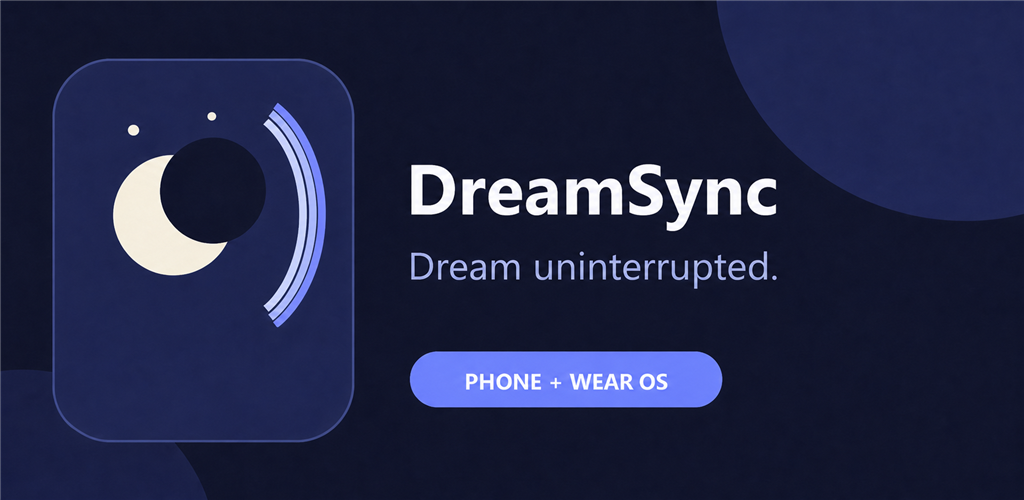
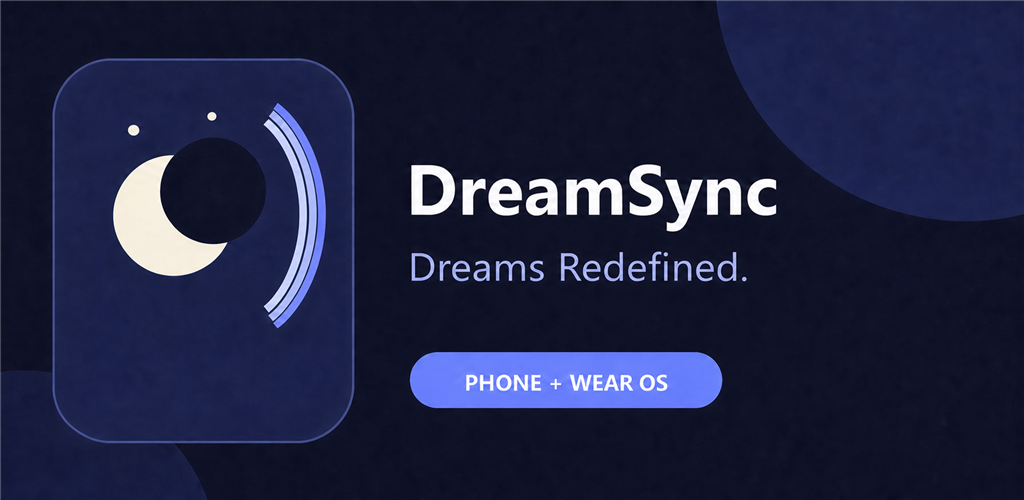
brand: redefine DreamSync marketing

diff --git a/phone/src/main/java/com/remote/DreamSync/MainActivity.java b/phone/src/main/java/com/remote/DreamSync/MainActivity.java
@@ -681,7 +681,9 @@ public final class MainActivity extends Activity {
                 .getBoolean("onboarding_seen", false)) return;
         new AlertDialog.Builder(this)
                 .setTitle("Welcome to DreamSync")
-                .setMessage("Tap Arm for tonight once. DreamSync opens the watch, waits for sustained sleep signals, estimates sleep onset, then activates conservative cue timing automatically. "
+                .setMessage("Dreams Redefined. DreamSync's mission is to protect sleep continuity. It estimates likely sleep from wearable signals, stays quiet when confidence is low, and uses gentle research-shaped cues only when strict safety checks indicate a low risk of disturbance. "
+                        + "Tap Arm for tonight once. DreamSync opens the watch, waits for sustained sleep signals, estimates sleep onset, then activates conservative cue timing automatically. "
+                        + "Designed for Samsung Galaxy Watch4 and later models running compatible Wear OS software, including Galaxy Watch Ultra. Apple Watch is planned but is not supported in this release. "
                         + "DreamSync is an adult wellness app that estimates cue-ready windows from wrist motion and heart rate. "
                         + "Its deep cue pattern is shaped by peer-reviewed EEG research, but DreamSync does not measure EEG or reproduce laboratory phase locking. "
                         + "It is not a medical device and does not diagnose, treat, cure, or prevent any medical condition. "
@@ -704,7 +706,11 @@ public final class MainActivity extends Activity {
         content.setLineSpacing(0f, 1.2f);
         content.setMovementMethod(LinkMovementMethod.getInstance());
         content.setText(Html.fromHtml(
-                "<b>What DreamSync does</b><br>"
+                "<b>Dreams Redefined.</b><br>"
+                        + "Our mission is to protect sleep continuity. DreamSync estimates likely sleep from wearable signals, stays quiet when confidence is low, and uses gentle research-shaped cues only when strict safety checks indicate a low risk of disturbance.<br><br>"
+                        + "<b>Watch compatibility</b><br>"
+                        + "Designed for Samsung Galaxy Watch4 and later models running compatible Wear OS software, including Watch4/4 Classic, Watch5/5 Pro, Watch6/6 Classic, Watch7, Watch8/8 Classic, Watch FE, and Galaxy Watch Ultra (2024/2025). Cueing requires usable heart-rate and motion signals plus the required permissions. Galaxy Fit and older Samsung Tizen watches are not supported. Apple Watch support is planned, not available in this release.<br><br>"
+                        + "<b>What DreamSync does</b><br>"
                         + "1. Tap <b>Arm for tonight</b> once. DreamSync opens the watch and waits quietly for sustained sleep signals.<br>"
                         + "2. Your watch estimates sleep onset from sustained low motion and signal quality. This is an estimate, not a sleep-stage diagnosis.<br>"
                         + "3. Cues are allowed only after a stable, low-motion period, from 25 to 145 minutes after estimated sleep onset.<br>"

diff --git a/docs/play-store/STORE_LISTING.md b/docs/play-store/STORE_LISTING.md
@@ -12,11 +12,13 @@
 
 ## Short description
 
-Dream uninterrupted. Sleep-first cues guided by your Wear OS watch.
+Dreams Redefined. Automatic sleep estimation with sleep-first safety.
 
 ## Full description
 
-Dream uninterrupted. DreamSync pairs your Android phone with a Wear OS watch to deliver quiet, research-shaped sleep cues during conservative cue-ready windows. Protecting your sleep always takes priority over delivering a cue.
+Dreams Redefined.
+
+DreamSync's mission is to protect sleep continuity. It automatically estimates likely sleep from wearable signals, stays quiet when confidence is low, and uses gentle, research-shaped cues only when strict safety checks indicate a low risk of disturbance.
 
 HOW IT WORKS
 
@@ -26,7 +28,7 @@ DreamSync waits for a stable, low-motion period from 25 to 145 minutes after est
 
 SCIENCE, CLEARLY STATED
 
-The acoustic pattern comes from peer-reviewed auditory sleep research. In a randomized crossover laboratory study of 14 healthy young men, Besedovsky and colleagues used EEG to phase-lock paired 50 dB pink-noise bursts to slow oscillations during non-REM sleep. About 172 paired stimulations were delivered on average across 120 minutes. The study reported increased slow-oscillation power and amplitude without changing time spent in measured sleep stages. Hormone analyses used 10 to 14 participants; immune-cell results used a nine-person subset; growth hormone was unchanged. DreamSync does not measure or claim those biological outcomes.
+The acoustic pattern comes from peer-reviewed auditory sleep research. In a randomized crossover laboratory study of 14 healthy young men, Besedovsky and colleagues used EEG to phase-lock paired 50 dB pink-noise bursts to slow oscillations during non-REM sleep. The study reported increased slow-oscillation power and amplitude without changing time spent in measured sleep stages. Those findings belong to the laboratory method; DreamSync does not claim biological outcomes.
 
 Earlier closed-loop studies by Ngo and colleagues reported effects on slow oscillations and memory under EEG control. A later open-loop study by Weigenand and colleagues did not improve word-pair memory, altered other sleep measures, and was noticed by half of its participants. DreamSync therefore makes no memory claim and uses low cue volume, conservative gating, long quiet periods, and immediate stopping after a cue-linked wake sign.
 
@@ -41,11 +43,13 @@ Ngo et al. Neuron, 2013. DOI: 10.1016/j.neuron.2013.03.006
 Ngo et al. Journal of Neuroscience, 2015. DOI: 10.1523/JNEUROSCI.3133-14.2015
 Weigenand et al. European Journal of Neuroscience, 2016. DOI: 10.1111/ejn.13334
 
-Your session history, morning check-ins, and optional dream notes stay on your paired devices unless you choose Export. DreamSync has no accounts, ads, analytics, or automatic cloud upload. You can export or delete your local data at any time.
+Session data stays on paired devices unless you choose Export. DreamSync has no accounts, ads, analytics, or automatic cloud upload. You can export or delete local data at any time.
 
 DreamSync is intended for adults age 18 and older. It is not a medical device and does not diagnose, treat, cure, or prevent any medical condition. It does not guarantee deeper sleep, memory improvement, immune effects, or lucid dreams. Consult a qualified healthcare professional for medical advice, diagnosis, or treatment.
 
-Requires an Android phone and a compatible Wear OS watch with motion and heart-rate sensors. Reliable heart-rate access is required for automatic cueing.
+WATCH COMPATIBILITY
+
+Designed for Samsung Galaxy Watch4 and later models running a compatible Wear OS version: Watch4/4 Classic, Watch5/5 Pro, Watch6/6 Classic, Watch7, Watch8/8 Classic, Watch FE, and Galaxy Watch Ultra (2024/2025). Cueing requires usable heart-rate and motion signals plus the required permissions. Google Play device compatibility and sensor availability can vary by watch software. Galaxy Fit and older Samsung Tizen watches are not supported. Apple Watch support is planned, not available in this release.
 
 ## Release notes
 

diff --git a/docs/play-store/MARKETING_PROPOSAL.md b/docs/play-store/MARKETING_PROPOSAL.md
@@ -2,17 +2,21 @@
 
 ## Positioning
 
-DreamSync is the sleep-first cue companion for adults who want a transparent, private way to explore research-shaped auditory cues with a Wear OS watch.
+DreamSync is the sleep-first cue companion for adults who want a transparent, private way to explore research-shaped auditory cues with a compatible Samsung Galaxy Watch.
 
 The marketing promise is simple: DreamSync explains what it does, shows the peer-reviewed work that shaped it, and clearly separates laboratory findings from what a consumer watch can estimate.
 
 ## Brand slogan
 
-Dream uninterrupted.
+Dreams Redefined.
+
+## Official mission
+
+DreamSync's mission is to protect sleep continuity by automatically estimating likely sleep from wearable signals, staying quiet when confidence is low, and using gentle, research-shaped cues only when strict safety checks indicate a low risk of disturbance.
 
 ## Primary message
 
-Sleep-first cues guided by your Wear OS watch, with private on-device data.
+Automatic sleep estimation, sleep-first safety, and private on-device data.
 
 Supporting points:
 
@@ -25,6 +29,12 @@ Supporting points:
 - Any arousal starts a 20-minute quiet period; the first cue-linked wake sign ends cueing for the night.
 - Personal data stays on the paired devices unless the user chooses Export.
 
+## Device message
+
+Designed for Samsung Galaxy Watch4 and later models running a compatible Wear OS version: Watch4/4 Classic, Watch5/5 Pro, Watch6/6 Classic, Watch7, Watch8/8 Classic, Watch FE, and Galaxy Watch Ultra (2024/2025).
+
+Public copy must also say that cueing depends on usable heart-rate and motion signals, permissions, Google Play device compatibility, and watch software. Galaxy Fit and older Samsung Tizen watches are not supported. Apple Watch support is planned, not available in this release. Do not describe an untested model as physically validated.
+
 ## Evidence and claim boundaries
 
 ### Claims DreamSync can make
@@ -32,6 +42,7 @@ Supporting points:
 - DreamSync plays the published paired-burst acoustic pattern.
 - DreamSync estimates conservative cue-ready windows from wrist motion, heart rate, and elapsed time.
 - DreamSync can say that sleep-onset timing becomes automatic after the user visibly arms health sensing for that night.
+- DreamSync is designed to protect sleep continuity by staying quiet when required safety checks are uncertain.
 - DreamSync uses explicit signal-quality, arousal, route, battery, connection, and volume safety gates.
 - DreamSync stores data locally and gives the user export and deletion controls.
 
@@ -50,6 +61,7 @@ Supporting points:
 - EEG phase locking.
 - Improved memory, immunity, hormones, or treatment of insomnia or depression.
 - Guaranteed lucid dreams.
+- Guaranteed uninterrupted sleep or guaranteed prevention of waking.
 - Medical-device, diagnostic, preventive, curative, or treatment claims.
 
 ## Store-page structure
@@ -63,8 +75,9 @@ Supporting points:
 
 ## Screenshot messages
 
-- Dream uninterrupted.
-- Research-shaped paired pink-noise cues.
+- Dreams Redefined.
+- Automatic sleep estimation. Sleep protection first.
+- Designed for Galaxy Watch Ultra and Galaxy Watch4 or later.
 - A wake sign stops cueing for the night.
 - Private history, check-ins, export, and deletion.
 - Science and limitations explained inside the app.

diff --git a/docs/play-store/BRAND_MESSAGING.md b/docs/play-store/BRAND_MESSAGING.md
@@ -1,0 +1,33 @@
+# DreamSync Official Brand Messaging
+
+## Slogan
+
+Dreams Redefined.
+
+## Mission
+
+DreamSync's mission is to protect sleep continuity by automatically estimating likely sleep from wearable signals, staying quiet when confidence is low, and using gentle, research-shaped cues only when strict safety checks indicate a low risk of disturbance.
+
+## Short public message
+
+Automatic sleep estimation with sleep-first safety.
+
+## Watch compatibility
+
+Designed for Samsung Galaxy Watch4 and later models running a compatible Wear OS version: Watch4/4 Classic, Watch5/5 Pro, Watch6/6 Classic, Watch7, Watch8/8 Classic, Watch FE, and Galaxy Watch Ultra (2024/2025). Cueing requires usable heart-rate and motion signals plus the required permissions. Google Play device compatibility and sensor availability can vary by watch software. Galaxy Fit and older Samsung Tizen watches are not supported. Apple Watch support is planned, not available in this release.
+
+## Approved claim language
+
+- Estimates likely sleep and conservative cue-ready windows.
+- Designed to protect sleep continuity.
+- Stays quiet when required safety checks are uncertain.
+- Uses a research-shaped paired pink-noise pattern.
+- Data stays on paired devices unless the user exports it.
+
+## Do not claim
+
+- Guaranteed uninterrupted sleep or prevention of waking.
+- Proven deeper sleep, sleep-stage detection, or EEG phase locking.
+- Improved memory, immunity, hormones, or treatment of a condition.
+- Guaranteed lucid dreams.
+- Physical validation on a watch model until that model has passed documented hardware tests.

diff --git a/docs/play-store/PUBLISHING_STATUS.md b/docs/play-store/PUBLISHING_STATUS.md
@@ -3,6 +3,9 @@
 ## Prepared
 
 - Public product name and publisher naming.
+- Official slogan: Dreams Redefined.
+- Official mission centered on automatic likely-sleep estimation, sleep continuity, and fail-closed cue safety.
+- Samsung Galaxy Watch4-and-later compatibility copy, with Apple Watch clearly marked as planned.
 - Version 1.0.0 with unique phone and Wear OS version codes.
 - Consumer interface with sleep-cue settings only.
 - Health permission disclosure before the watch permission prompt.
@@ -10,6 +13,9 @@
 - Privacy policy source and deployable website.
 - Store listing and Play declaration answers.
 - Local export and deletion controls.
+- Slogan feature graphic at `assets/dreamsync-feature-graphic-slogan-1024x500.png`.
+- Current phone and tablet screenshots captured from version code 9.
+- Live Google Play short and full descriptions saved with the official slogan and mission.
 
 ## Google Play gate
 
@@ -19,6 +25,7 @@ This developer account must complete Google Play's required closed release with 
 
 - Make the hosted privacy policy publicly accessible and enter its URL in Play Console.
 - Finish the 11 App information and store listing tasks in Play Console.
+- Upload the current icon, slogan feature graphic, and current app screenshots.
 - Upload phone and Wear OS 1.0.0 bundles to the closed track.
 - Add at least 12 real users and keep them opted in for 14 consecutive days.
 - Apply for production access after the gate unlocks.

diff --git a/README.md b/README.md
@@ -1,10 +1,18 @@
 # DreamSync
 
-**Dream uninterrupted.**
+**Dreams Redefined.**
 
 DreamSync is an Android and Wear OS wellness app that plays low-volume sleep cues only when a paired watch detects conservative cue-ready windows from motion and heart-rate signals. Protecting sleep always takes priority over delivering a cue.
 
 DreamSync does not measure EEG, diagnose sleep, treat a medical condition, guarantee deeper sleep, or guarantee lucid dreams. Session data stays on the user's devices unless the user chooses Export.
+
+## Mission
+
+DreamSync's mission is to protect sleep continuity by automatically estimating likely sleep from wearable signals, staying quiet when confidence is low, and using gentle, research-shaped cues only when strict safety checks indicate a low risk of disturbance.
+
+## Watch compatibility
+
+DreamSync is designed for Samsung Galaxy Watch4 and later models running a compatible Wear OS version, including Watch4/4 Classic, Watch5/5 Pro, Watch6/6 Classic, Watch7, Watch8/8 Classic, Watch FE, and Galaxy Watch Ultra (2024/2025). Cueing requires usable heart-rate and motion signals and the required permissions. Google Play device compatibility and sensor availability can vary by watch software. Galaxy Fit and older Samsung Tizen watches are not supported. Apple Watch support is planned, not available in this release.
 
 ## Automatic sleep estimation
 

diff --git a/docs/VERIFICATION_RESULTS.md b/docs/VERIFICATION_RESULTS.md
@@ -7,6 +7,10 @@ Date: 19 July 2026
 - Public name: DreamSync.
 - Publisher: Remote.
 - Package: `com.remote.DreamSync`.
+- Phone release code: 9 (`1.0.0`).
+- Official slogan and mission are consistent across the app and Play marketing copy.
+- Public compatibility copy names Samsung Galaxy Watch4 and later Wear OS models, requires usable heart-rate and motion signals, and marks Apple Watch as planned.
+- Live Google Play short and full descriptions are saved with the official slogan and mission.
 - Phone and Wear OS debug builds pass.
 - Phone and Wear OS signed release bundles pass.
 - Shared safety and protocol checks pass: 12 checks, 0 failures.
@@ -44,5 +48,5 @@ Date: 19 July 2026
 
 - Physical S23+ and Watch Ultra sensor/audio validation.
 - Physical verification of the phone-to-bound-watch automatic launch and first-use permission flow.
-- Play Console listing and release-asset submission.
+- Play Console graphics upload and release-asset submission.
 - Google Play closed-release gate: 12 opted-in users for 14 continuous days.
